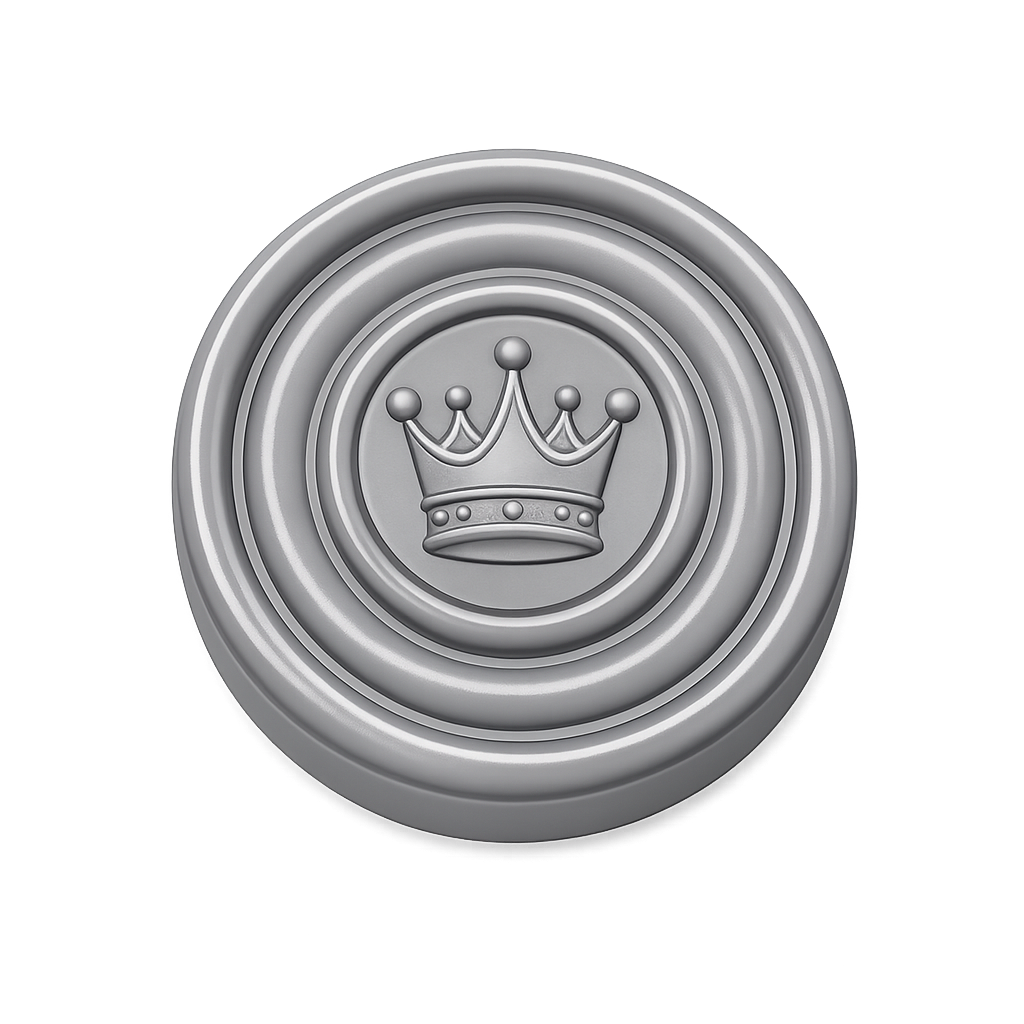
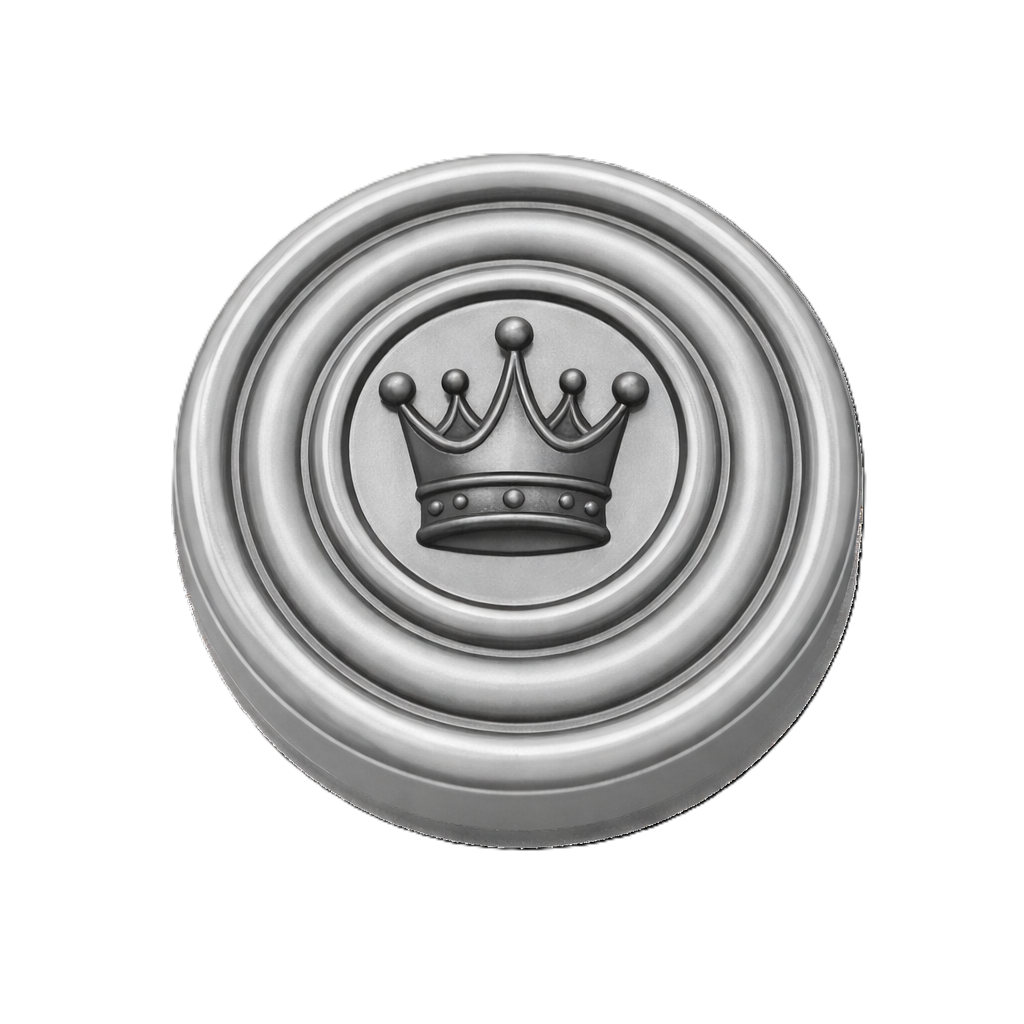
Change name to Draughts Pro

Changed region(s): [[0.1562, 0.125, 0.8438, 0.8438]]

diff --git a/index.html b/index.html
@@ -10,7 +10,7 @@
     />
     <meta name="viewport" content="width=device-width, initial-scale=1.0" />
     <meta name="description" content="Play checkers online against AI or challenge friends remotely. Free browser-based checkers game with smooth gameplay and multiplayer support." />
-    <title>Checkers - Play locally against AI or with friends remotely</title>
+    <title>Draughts Pro - Play checkers locally against AI or with friends remotely</title>
   </head>
   <body>
     <div id="root"></div>

diff --git a/README.md b/README.md
@@ -1,73 +1,3 @@
-# React + TypeScript + Vite
+# Draughts Pro
 
-This template provides a minimal setup to get React working in Vite with HMR and some ESLint rules.
-
-Currently, two official plugins are available:
-
-- [@vitejs/plugin-react](https://github.com/vitejs/vite-plugin-react/blob/main/packages/plugin-react) uses [Babel](https://babeljs.io/) (or [oxc](https://oxc.rs) when used in [rolldown-vite](https://vite.dev/guide/rolldown)) for Fast Refresh
-- [@vitejs/plugin-react-swc](https://github.com/vitejs/vite-plugin-react/blob/main/packages/plugin-react-swc) uses [SWC](https://swc.rs/) for Fast Refresh
-
-## React Compiler
-
-The React Compiler is currently not compatible with SWC. See [this issue](https://github.com/vitejs/vite-plugin-react/issues/428) for tracking the progress.
-
-## Expanding the ESLint configuration
-
-If you are developing a production application, we recommend updating the configuration to enable type-aware lint rules:
-
-```js
-export default defineConfig([
-  globalIgnores(['dist']),
-  {
-    files: ['**/*.{ts,tsx}'],
-    extends: [
-      // Other configs...
-
-      // Remove tseslint.configs.recommended and replace with this
-      tseslint.configs.recommendedTypeChecked,
-      // Alternatively, use this for stricter rules
-      tseslint.configs.strictTypeChecked,
-      // Optionally, add this for stylistic rules
-      tseslint.configs.stylisticTypeChecked,
-
-      // Other configs...
-    ],
-    languageOptions: {
-      parserOptions: {
-        project: ['./tsconfig.node.json', './tsconfig.app.json'],
-        tsconfigRootDir: import.meta.dirname,
-      },
-      // other options...
-    },
-  },
-])
-```
-
-You can also install [eslint-plugin-react-x](https://github.com/Rel1cx/eslint-react/tree/main/packages/plugins/eslint-plugin-react-x) and [eslint-plugin-react-dom](https://github.com/Rel1cx/eslint-react/tree/main/packages/plugins/eslint-plugin-react-dom) for React-specific lint rules:
-
-```js
-// eslint.config.js
-import reactX from 'eslint-plugin-react-x'
-import reactDom from 'eslint-plugin-react-dom'
-
-export default defineConfig([
-  globalIgnores(['dist']),
-  {
-    files: ['**/*.{ts,tsx}'],
-    extends: [
-      // Other configs...
-      // Enable lint rules for React
-      reactX.configs['recommended-typescript'],
-      // Enable lint rules for React DOM
-      reactDom.configs.recommended,
-    ],
-    languageOptions: {
-      parserOptions: {
-        project: ['./tsconfig.node.json', './tsconfig.app.json'],
-        tsconfigRootDir: import.meta.dirname,
-      },
-      // other options...
-    },
-  },
-])
-```
+Draughts Pro is a browser-based checkers game that allows you to play locally against AI or with friends remotely for free.